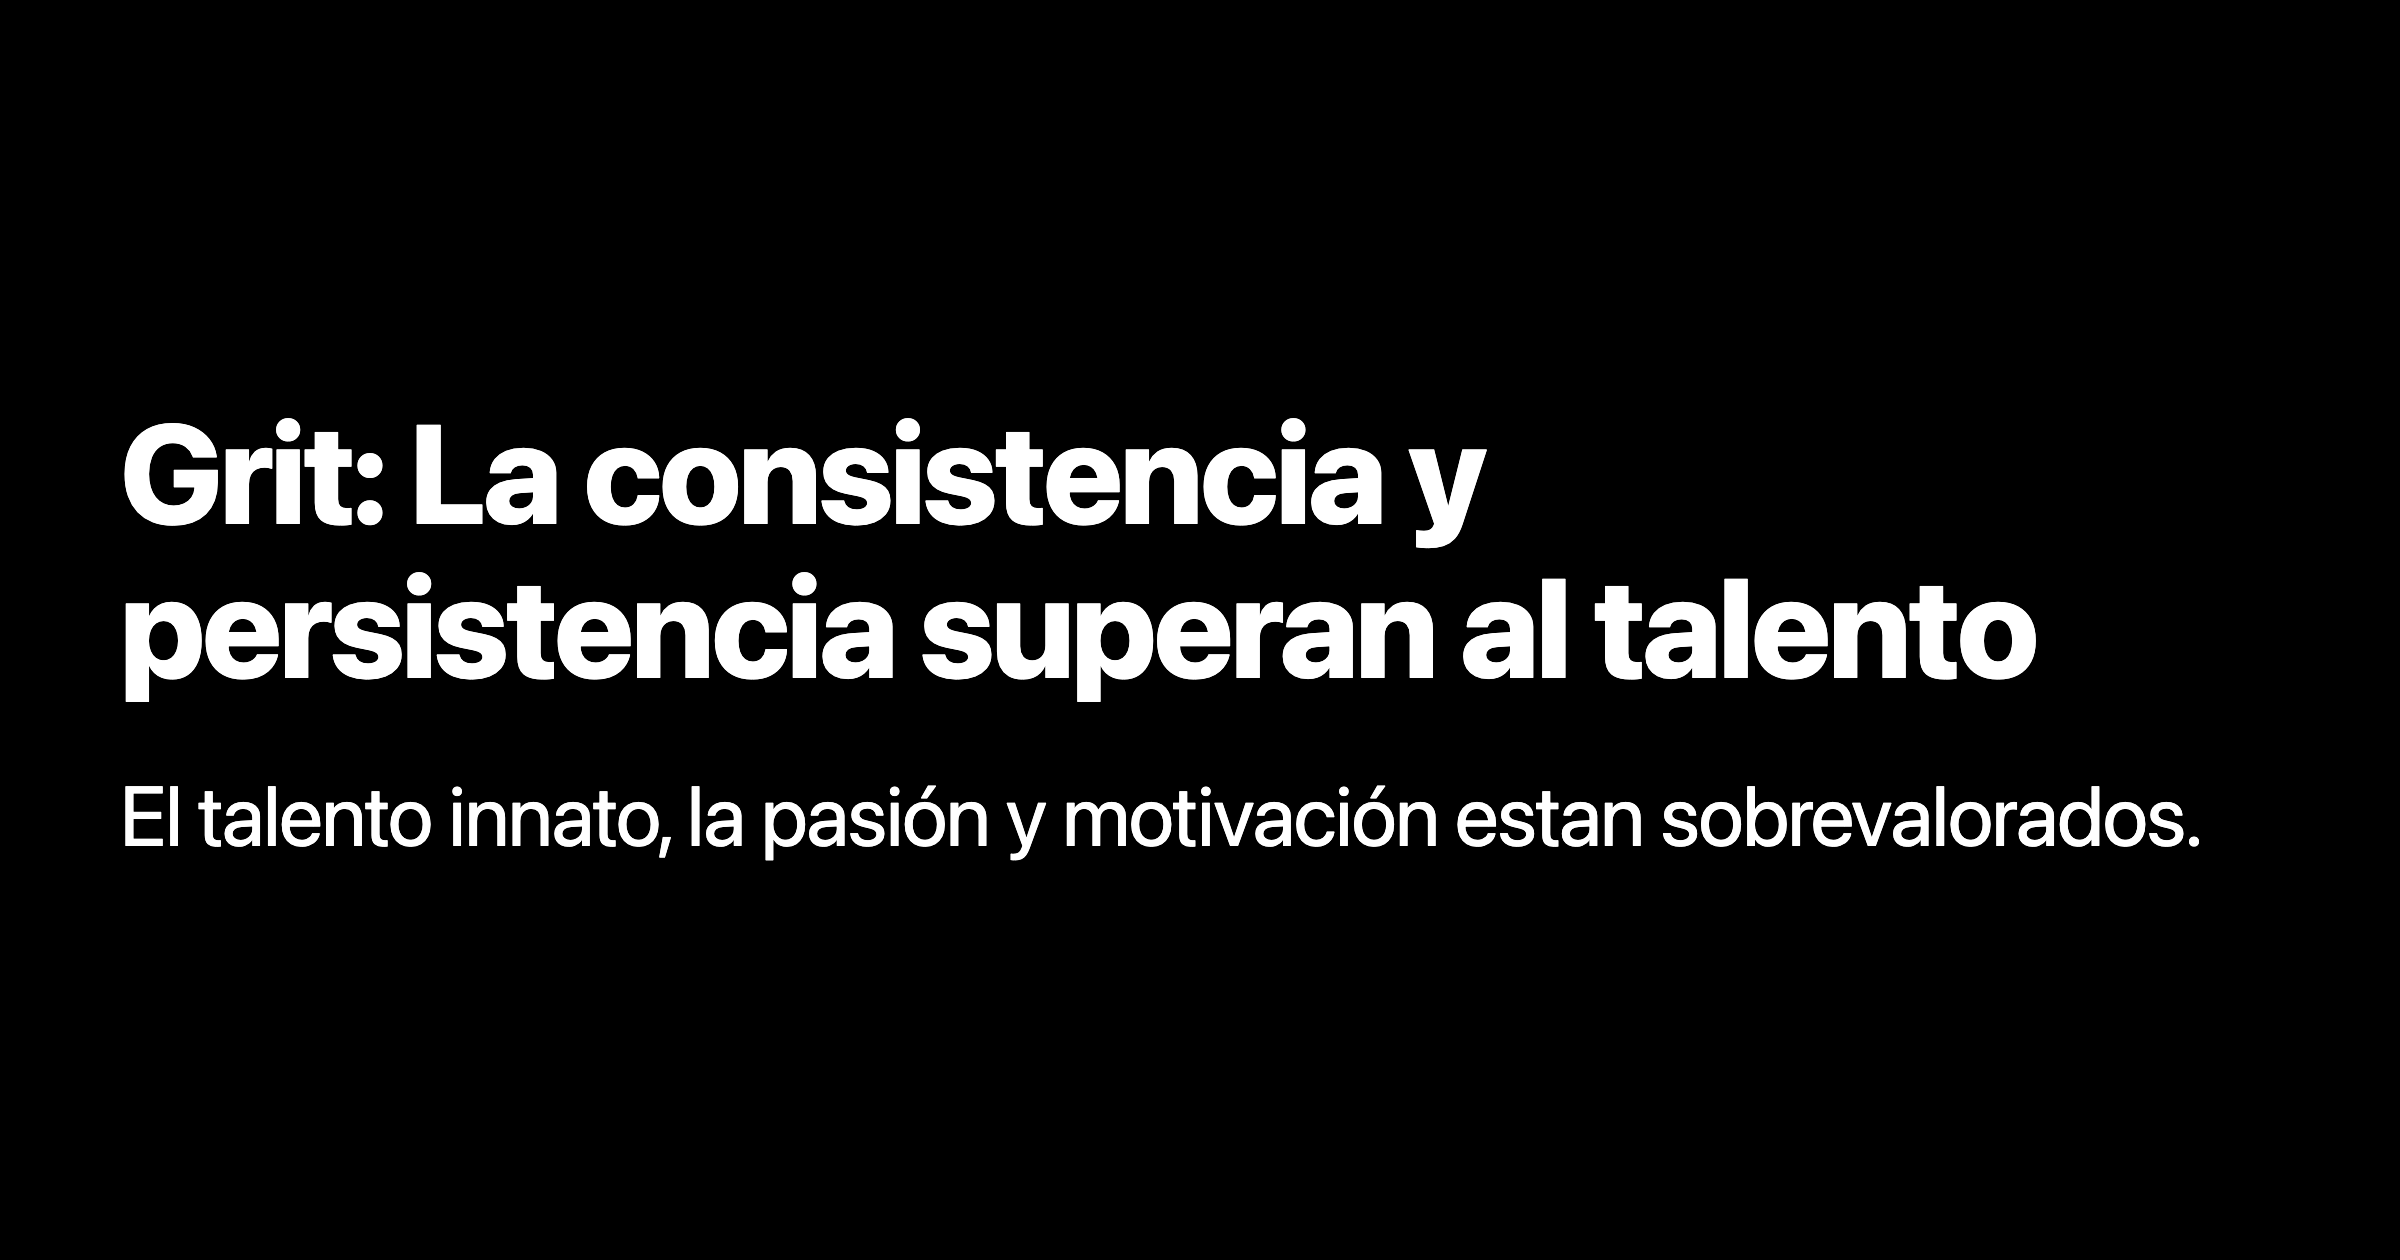
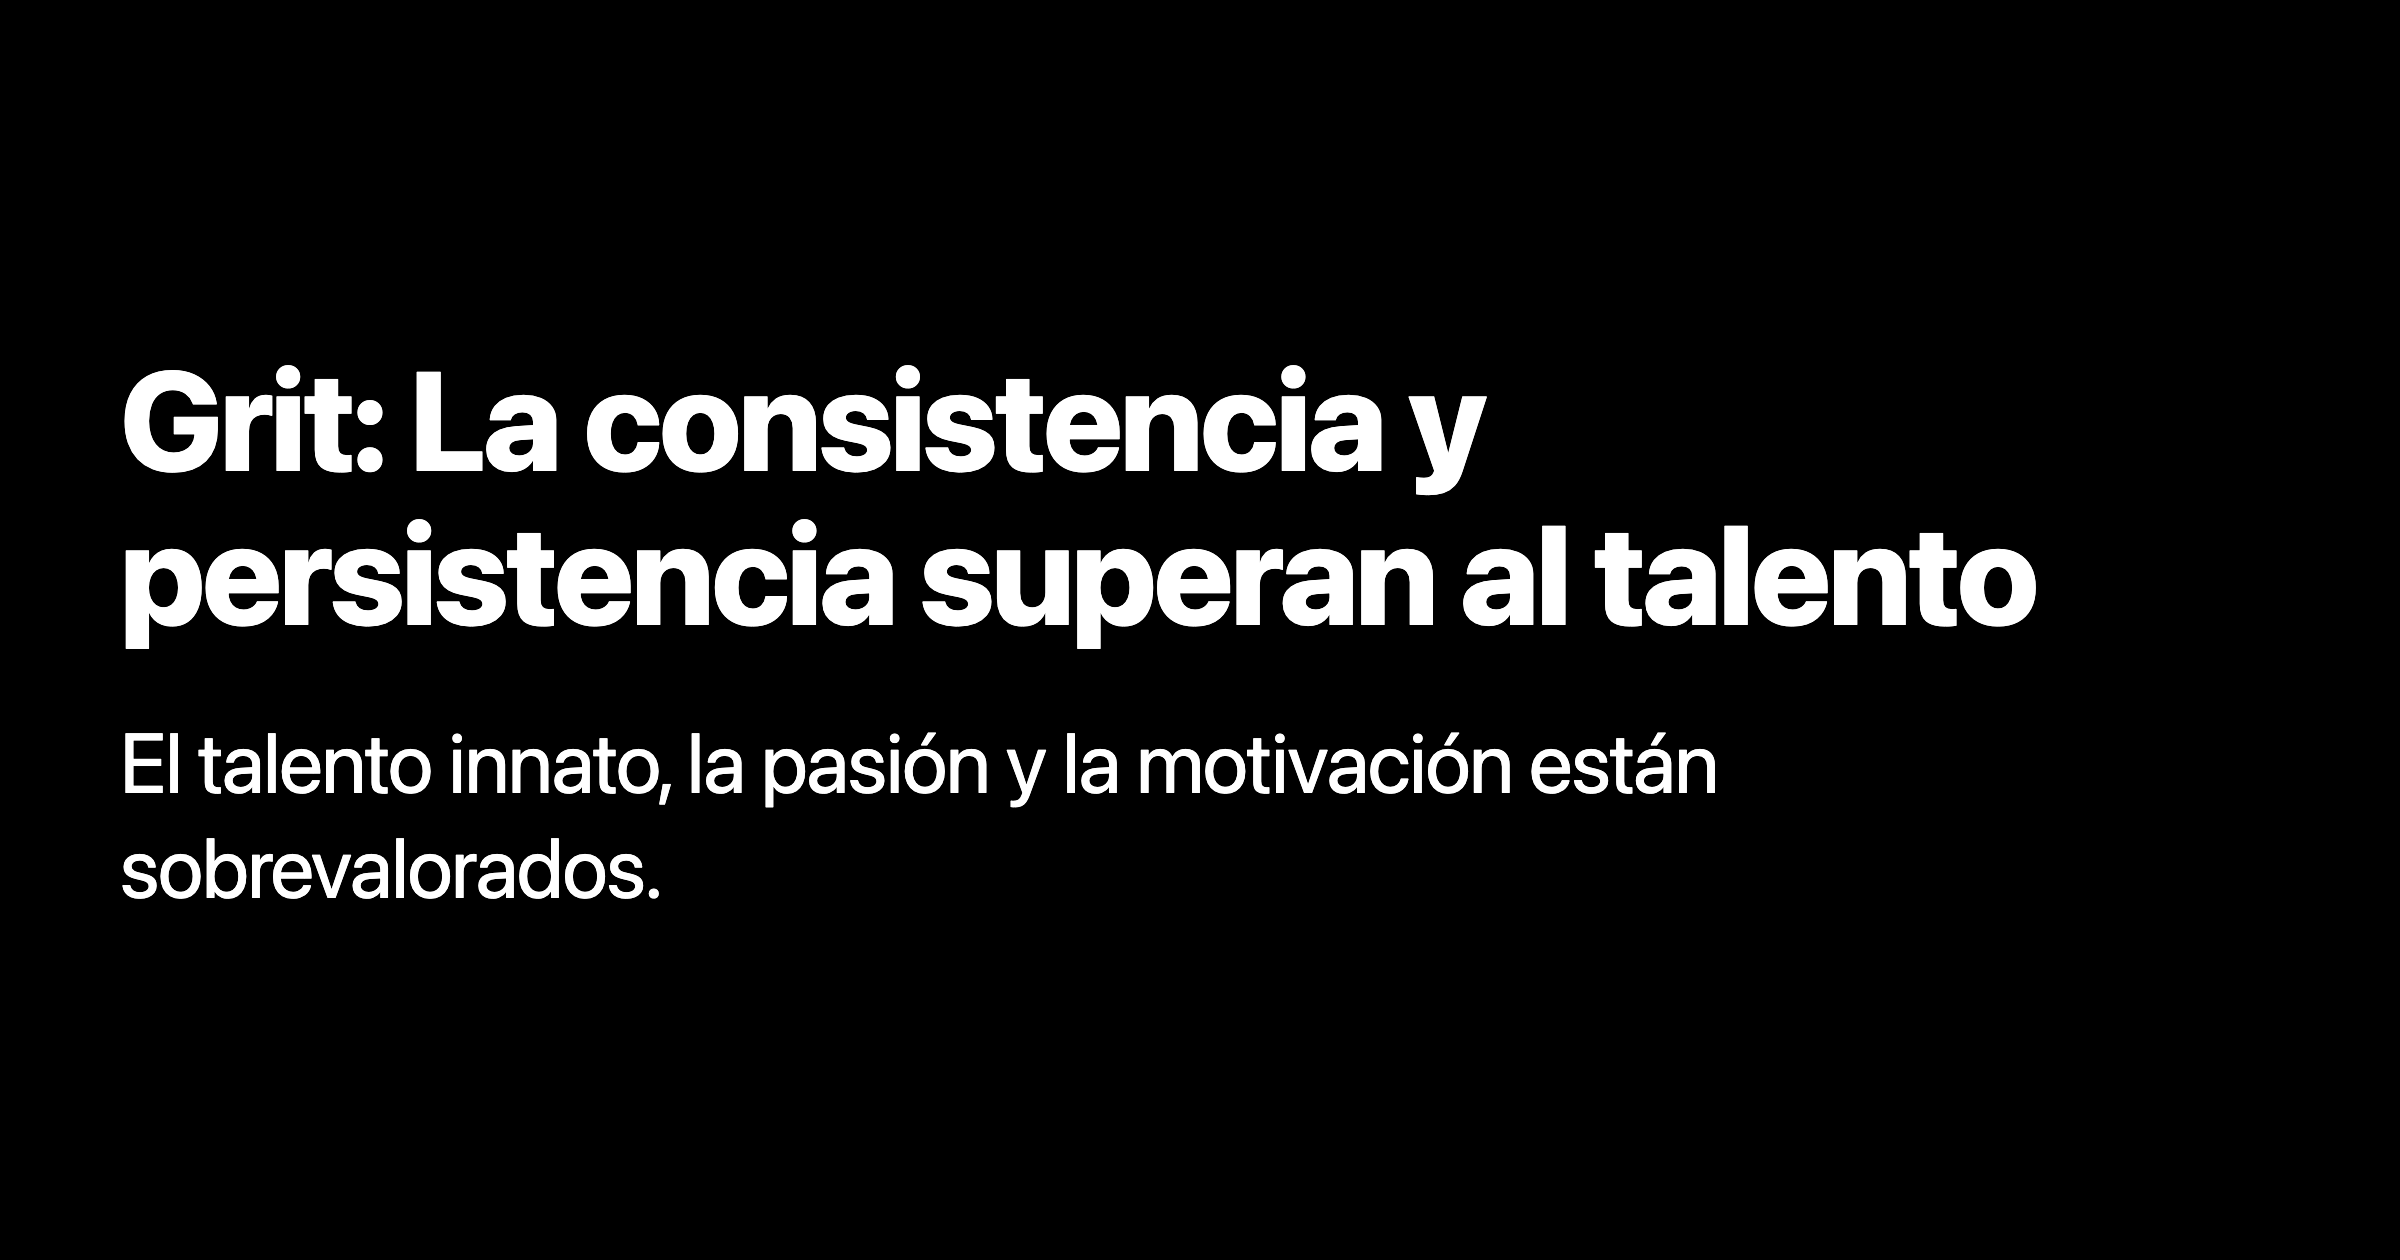
update post

Changed region(s): [[0.0312, 0.2786, 0.875, 0.5571], [0.0312, 0.5881, 0.9062, 0.7119]]

diff --git a/content/posts/grit.md b/content/posts/grit.md
@@ -4,26 +4,28 @@ date = 2025-03-04T06:05:00-03:00
 draft = false
 tags = ["grit", "Angela Duckworth", "práctica deliberada", "consistencia", "pasión", "motivación", "talento"]
 categories = ["desarrollo"]
-description = 'El talento innato, la pasión y motivación estan sobrevalorados.'
+description = 'El talento innato, la pasión y la motivación están sobrevalorados.'
 +++
 
-No todo tiene que comenzar con palabras grandes como: **pasión**. A veces la curiosidad o la exploración nos pueden mostrar la relevancia de un tema o una práctica, transformándola en un interés duradero.
+No todo tiene que comenzar con palabras grandilocuentes como **‘talento’, ‘pasión’ o ‘motivación’**. A veces la curiosidad o la exploración nos pueden mostrar la relevancia de un tema o una práctica, transformándola en un interés duradero.
 
 ¿Sientes que alguna o muchas veces abandonaste algo antes de tiempo, o no lo profundizaste suficiente? A veces, sólo necesitábamos un poco más de perseverancia para descubrir su verdadero potencial. Quizá soltamos algo antes de tiempo porque nos dijimos: _«no tengo dedos para el piano»_. Pero hay razones para continuar.
 
-Angela Duckworth, a través de su investigación sobre el **_[Grit](https://angeladuckworth.com/grit-book/)_**, ha demostrado que la perseverancia da resultados, incluso si creemos que no tenemos "habilidades naturales" para algo.
+Angela Duckworth, a través de su investigación sobre el **_[Grit](https://angeladuckworth.com/grit-book/)_**, ha demostrado que la perseverancia da resultados, incluso si creemos que no tenemos "habilidades naturales”.
 
 Aunque las habilidades con las que nacemos sí juegan un papel (no es lo mismo medir dos metros si juegas basquetbol, por ejemplo), deberíamos reconocer el esfuerzo como algo mucho más valioso.
 
-El esfuerzo sostenido y la práctica deliberada son el camino para desarrollar habilidades y lograr resultados tangibles. Incluso el talento inicial se desvanece sin ellos.
+El esfuerzo sostenido y la práctica deliberada son el camino para aprender sobre un tema, desarrollar habilidades y lograr resultados tangibles. Hasta el talento inicial se desvanece sin ello.
 
-Para entender mejor esto, Angela Duckworth propone una "fórmula" simple pero poderosa:
+Para entenderlo mejor Angela Duckworth propone una "fórmula" simple pero potente:
 
 	     Talento × Esfuerzo = Habilidad
 	
 	     Habilidad × Esfuerzo = Logro
 
-Esto significa que el talento inicial necesita ser multiplicado por el esfuerzo para generar habilidad, y luego esa habilidad necesita ser nuevamente multiplicada por el esfuerzo para generar un logro real. En otras palabras, el esfuerzo es el factor clave que transforma el potencial en resultados.
+Esto significa que el talento inicial necesita ser multiplicado por el esfuerzo para generar una habilidad, y luego esa habilidad necesita ser nuevamente multiplicada por el esfuerzo para generar un logro real. En otras palabras, el esfuerzo es el factor clave que transforma el potencial en resultados.
+
+> _Esto es algo que he visto de primera mano en muchas cosas que he emprendido. Por ejemplo, cuando comenzamos 9punto5 el 2015, no tenía idea de cómo organizar una conferencia, no sabía de cultura organizacional, ni trabajo remoto._
 
 ## El caso del escritor John Irving
 El escritor John Irving es un ejemplo de eso.
@@ -31,36 +33,44 @@ El escritor John Irving es un ejemplo de eso.
 Lejos de ser un prodigio, tuvo dificultades en la escuela, repitió un año, reprobó lenguaje y obtuvo calificaciones por debajo del promedio en los exámenes de admisión a la universidad. Era disléxico y necesitó más tiempo que sus pares para aprender a leer y escribir. Sin embargo, Irving se aplicó con esfuerzo a esta tarea a lo largo de su vida, llegando a escribir y reescribir hasta 10 borradores de sus novelas. Su perseverancia le dio, entre otras cosas, el *National Book Award* en 1978 por su novela "El Mundo Según Garp".
 
 ## Como los finlandeses
-En Chile, y quizá también en tu país, regularmente citamos a Finlandia como un país al que imitar, y sin duda sus logros se relacionan con la idea de este post. Su cultura valora profundamente la perseverancia y la determinación, e incluso tienen una palabra para esto: "[sisu](https://es.wikipedia.org/wiki/Sisu)".
+En Chile, y quizá también en tu país, regularmente citamos a Finlandia como un país al que imitar, y sin duda sus logros se relacionan con la idea de este post. Su cultura valora profundamente la perseverancia y la determinación. Incluso tienen una palabra para esto: "[sisu](https://es.wikipedia.org/wiki/Sisu)".
 
-La resistencia y la tenacidad son una parte integral de su identidad nacional.
+La resistencia y la tenacidad son una parte integral de su identidad nacional. 
+
+Si queremos ser como los finlandeses no podemos copiar simplemente sus resultados, necesitamos imitar la mentalidad que los produce.
 
 ## Cómo se consigue el GRIT en la práctica
 Este tipo de determinación se construye combinando metas a corto y largo plazo. Necesitamos una visión de futuro que nos motive e impulse sobre los baches cotidianos. Pero el *grit* también requiere de acción en el ahora.
 
-Si quieres llegar a los 80 años con vigor y autonomía, necesitas moverte hoy.
+Si quieres llegar a los 80 años con vigor y autonomía, necesitas moverte hoy. 
 
-Es necesario encontrar los hilos que conectan los esfuerzos actuales con los frutos futuros, y la motivación crece cuando --además-- notamos el impacto que esto tiene en la vida de otras personas. Algo que nos ayuda a perseverar a través de los desafíos.
+Es necesario encontrar los hilos que conectan los esfuerzos actuales con los resultados futuros, y la motivación crece cuando --además-- vemos el impacto positivo que nuestras acciones generan en la vida de otras personas. Algo que nos ayuda a perseverar a través de los desafíos.
 
-No es extraño que encontremos placer y significado a lo que hacemos durante la práctica consistente. Más que al revés.
+No es extraño que encontremos satisfacción y pasión como resultado de la práctica constante. Más que al revés.
 
 ## Práctica deliberada
 Todo esto se relaciona con el concepto de *práctica deliberada*. Es decir, el esfuerzo consciente y enfocado en la mejora constante, la búsqueda activa de retroalimentación. De identificar y aplicarse a algo que no puedes hacer hoy, pero que con esfuerzo consigues hacer mañana (o pasado).
 
-Eso es gratificante en sí mismo, nos hace evitar el estancamiento y nos permite ver y disfrutar de los resultados y los beneficios de la práctica y mejora consistente.
+Eso es gratificante en sí mismo, evita que nos estanquemos, y nos permite ver y disfrutar de los beneficios de la práctica y mejora consistente.
 
 ## Retrasar la recompensa
-Ahí es donde está lo desafiante y necesitamos voluntad para persistir. Seguro llegarán momentos en que la práctica será difícil, frustrante o hasta aburrida.
+Cuando hoy vivimos rodeados de estímulos y en tiempos de la gratificación instantánea, es hasta una muestra de rebeldía el que seamos capaces de retrasar la recompensa. Permitir que el esfuerzo genere aprendizaje y resultados.
 
-En tiempos de la gratificación instantánea, necesitamos aprender a postergar la recompensa para permitir que el esfuerzo genere aprendizaje y resultados. En lugar de depender y apoyarnos solamente en lo que ya sabemos hacer.
+Necesitamos persistencia para enfrentar los momentos en que la práctica se pone difícil, frustrante o hasta aburrida.
 
-**Es buena idea comenzar por lo fácil, el problema es quedarnos ahí.**
+Algo que es desafiante hasta biológicamente, por la forma en que nuestro cerebro percibe y valora el tiempo y las recompensas:
 
-Cuando la motivación desaparece, quizá necesitamos confiar en la consistencia, al menos un poco más.
+- Las recompensas inmediatas activan con mayor intensidad zonas emocionales del cerebro, ligadas al placer instantáneo (_núcleo accumbens_). En cambio, elegir recompensas futuras requiere de pensamiento racional y planificación (_corteza prefrontal lateral_ y _parietal posterior_). -- [McClure, 2004](https://www.science.org/doi/10.1126/science.1100907).
+- Durante la decisión inicial, las recompensas inmediatas parecen más atractivas y valiosas. Tendemos a preferir una recompensa pequeña inmediata por sobre una recompensa mayor futura. -- [Wittmann, 2010](https://pmc.ncbi.nlm.nih.gov/articles/PMC2907916/).
 
-Es más probable que el talento, la motivación y la pasión aparezcan como resultado de la práctica consistente. Esperar que estén al incio es una trampa.
+## Sistemas en vez de fuerza de voluntad
+Además, nuestro cerebro ha demostrado ser tremendamente [~~flojo~~ ahorrativo](https://sketchyideas.co/the-principle-of-least-effort/). Nuestros sistemas cognitivos buscan conservar recursos, más que la excelencia. Si estamos delante de una tarea difícil es probable que busquemos [el camino más simple](https://en.wikipedia.org/wiki/Principle_of_least_effort) sin darnos cuenta siquiera.
 
-¿Qué pequeño esfuerzo puedes hacer hoy para avanzar en algo importante para ti? Nos hace bien revalorar el trabajo duro y la perseverancia.
+Por eso, no podemos depender únicamente de nuestra fuerza de voluntad. Necesitamos crear sistemas que faciliten la consistencia. Cuando la motivación inicial disminuye, los hábitos y sistemas que establezcamos serán cruciales para mantenernos avanzando (tema que dejo para un post futuro).
+
+Recuerda, el talento, la pasión y la motivación pueden ser resultado de la práctica consistente. Esperar que estén al inicio es una trampa.
+
+¿Qué pequeño esfuerzo puedes hacer hoy para avanzar en algo realmente importante para ti? Nos hace bien revalorar el trabajo duro y la perseverancia.
 
 No es raro que algo valioso comience así:
 ![easy](/img/easy.jpg)
